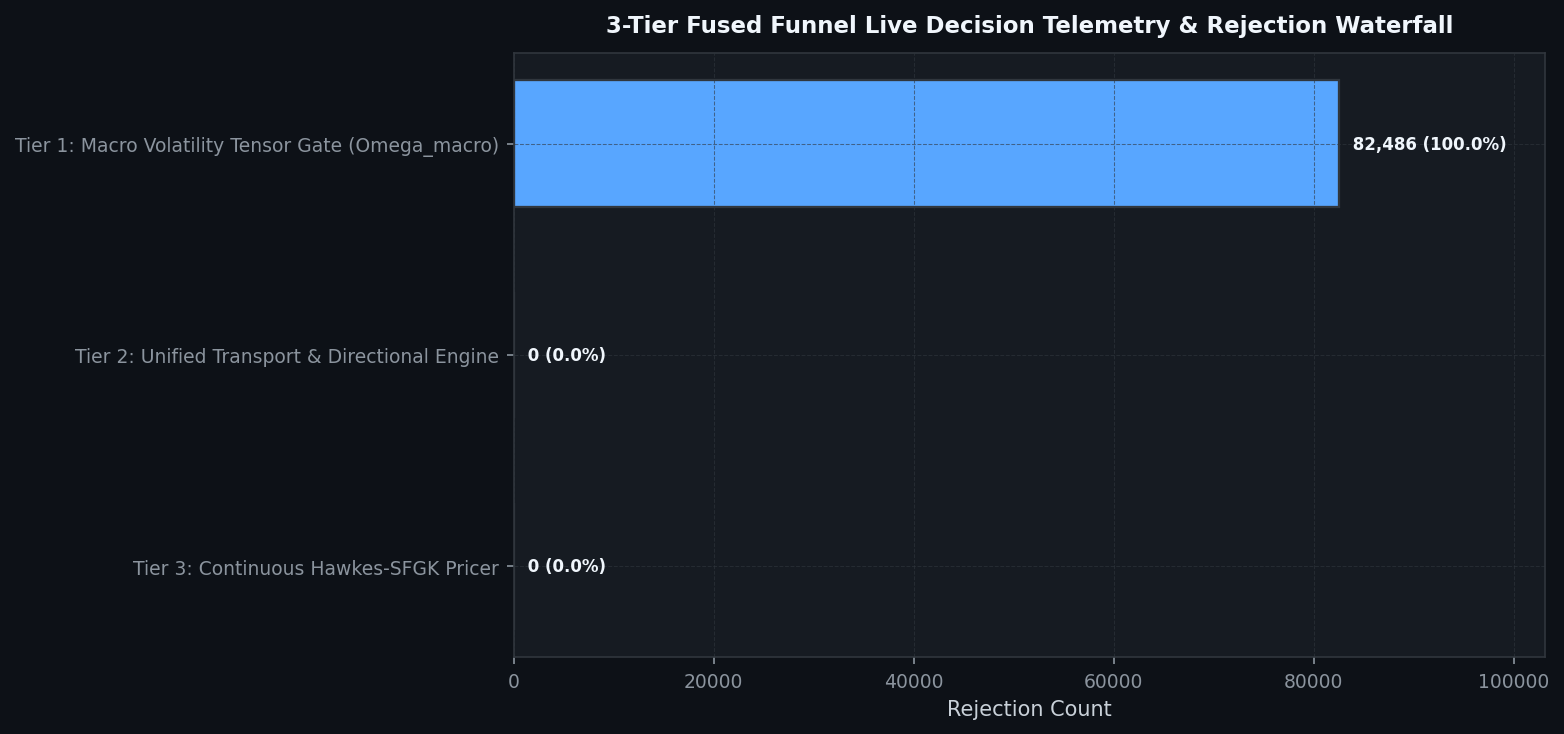
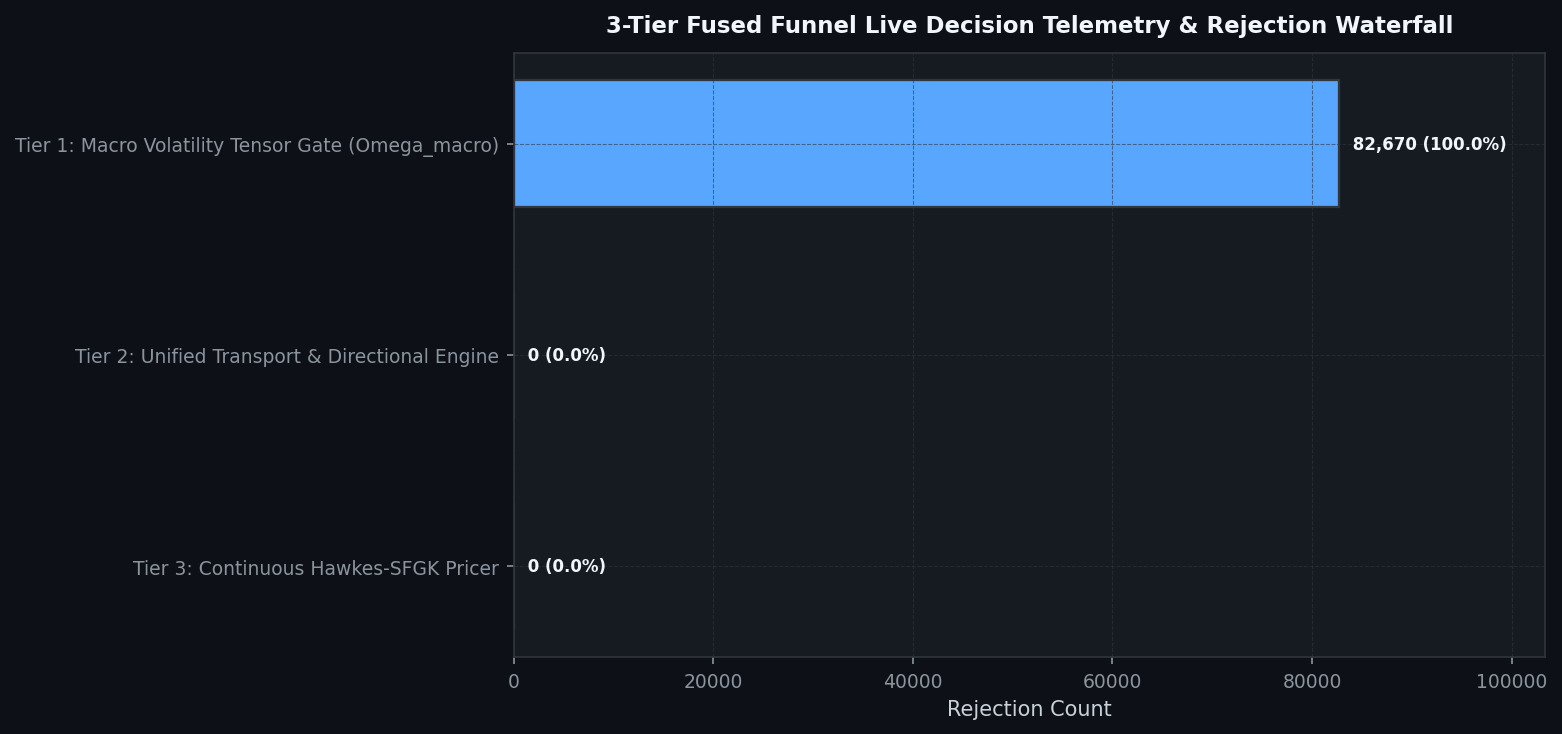
[coinbase] Hourly Status & Visual Intelligence Update: 2026-09-02 14:14:53

diff --git a/coinbase/data/hourly_status_report.md b/coinbase/data/hourly_status_report.md
@@ -3,7 +3,7 @@ layout: default
 ---
 
 # 🛡 Unified Trading System Hourly Status & Visual Intelligence
-> **Report Generated**: `2026-09-02 02:00:04 PM PDT (2026-09-02 21:00:04 UTC)`  
+> **Report Generated**: `2026-09-02 02:14:33 PM PDT (2026-09-02 21:14:33 UTC)`  
 > **System Health**: **🟡 DEGRADED / RESTRICTED** | **Win Rate**: `0.0%` | **Completed Trades**: `0`
 
 
@@ -15,13 +15,13 @@ Real-time Deribit implied volatility (DVOL) proxy tracking against mathematicall
 
 | Symbol | Proxy Oracle | Live Z-Score | Optimal Limit (YSP) | Safety Margin | Live VRP | Optimal VRP (YSP) | DAW Safety Verdict |
 | :--- | :--- | :--- | :--- | :--- | :--- | :--- | :--- |
-| `AVAX-USD` | DVOL_BTC | **-2.00** | **-0.50** | **-1.50** | **+8.39** | -1.0 | 🔴 DAW VETOED |
-| `ETH-USD` | DVOL_ETH | **-1.75** | **-0.50** | **-1.25** | **+22.60** | -1.0 | 🔴 DAW VETOED |
-| `ADA-USD` | DVOL_BTC | **-2.00** | **-0.50** | **-1.50** | **+8.32** | -1.0 | 🔴 DAW VETOED |
-| `DOGE-USD` | DVOL_BTC | **-2.00** | **-0.50** | **-1.50** | **+8.32** | -1.0 | 🔴 DAW VETOED |
-| `BTC-USD` | DVOL_BTC | **-2.00** | **-0.50** | **-1.50** | **+8.68** | -1.0 | 🔴 DAW VETOED |
-| `LINK-USD` | DVOL_BTC | **-2.00** | **-0.50** | **-1.50** | **+8.17** | -1.0 | 🔴 DAW VETOED |
-| `SOL-USD` | DVOL_BTC | **-2.00** | **-0.50** | **-1.50** | **+8.68** | -1.0 | 🔴 DAW VETOED |
+| `AVAX-USD` | DVOL_BTC | **-1.37** | **-0.50** | **-0.87** | **+9.28** | -1.0 | 🔴 DAW VETOED |
+| `ETH-USD` | DVOL_ETH | **-1.85** | **-0.50** | **-1.35** | **+22.60** | -1.0 | 🔴 DAW VETOED |
+| `ADA-USD` | DVOL_BTC | **-1.37** | **-0.50** | **-0.87** | **+9.28** | -1.0 | 🔴 DAW VETOED |
+| `DOGE-USD` | DVOL_BTC | **-1.37** | **-0.50** | **-0.87** | **+9.28** | -1.0 | 🔴 DAW VETOED |
+| `BTC-USD` | DVOL_BTC | **-1.37** | **-0.50** | **-0.87** | **+9.28** | -1.0 | 🔴 DAW VETOED |
+| `LINK-USD` | DVOL_BTC | **-1.37** | **-0.50** | **-0.87** | **+9.28** | -1.0 | 🔴 DAW VETOED |
+| `SOL-USD` | DVOL_BTC | **-1.37** | **-0.50** | **-0.87** | **+9.28** | -1.0 | 🔴 DAW VETOED |
 
 
 
@@ -37,16 +37,16 @@ We hereby certify that the mission-critical algorithmic data assets uploaded by 
 
 | Status | Data Asset | Freshness / State | Details / Timestamp |
 | :---: | :--- | :--- | :--- |
-| ✅ | **Go-List JSON** | Fresh (6.30h old) | 09-02 07:42 |
-| ✅ | **TimesFM Forecasts** | Fresh (1.12h old) | 09-02 12:53 |
-| ✅ | **Holding Times config** | Fresh (49.28h old) | 08-31 12:43 |
-| ✅ | **BTC DVOL Cache** | Fresh (0.00h old) | 09-02 14:00 |
-| ✅ | **ETH DVOL Cache** | Fresh (0.00h old) | 09-02 14:00 |
-| ✅ | **Live Trading Telemetry** | Fresh (0.00h old) | 09-02 14:00 |
+| ✅ | **Go-List JSON** | Fresh (6.54h old) | 09-02 07:42 |
+| ✅ | **TimesFM Forecasts** | Fresh (1.36h old) | 09-02 12:53 |
+| ✅ | **Holding Times config** | Fresh (49.52h old) | 08-31 12:43 |
+| ✅ | **BTC DVOL Cache** | Fresh (0.00h old) | 09-02 14:14 |
+| ✅ | **ETH DVOL Cache** | Fresh (0.00h old) | 09-02 14:14 |
+| ✅ | **Live Trading Telemetry** | Fresh (0.00h old) | 09-02 14:14 |
 
 <br>
 
-> **Utilization Certification**: ✅ **CERTIFIED.** The Guardian Watchdog is ONLINE and EC2 traders are actively querying the freshest MLOps data artifacts (Found 1803 recent read events).
+> **Utilization Certification**: ✅ **CERTIFIED.** The Guardian Watchdog is ONLINE and EC2 traders are actively querying the freshest MLOps data artifacts (Found 1759 recent read events).
 
 
 ---
@@ -55,7 +55,7 @@ Layer-by-layer tick evaluation waterfall and asset-specific performance tracking
 
 | Funnel Filter Layer | Total Rejections | % of Rejections |
 | :--- | :--- | :--- |
-| Tier 1: Macro Volatility Tensor Gate (Omega_macro) | `82,486` | **100.0%** |
+| Tier 1: Macro Volatility Tensor Gate (Omega_macro) | `82,670` | **100.0%** |
 | Tier 2: Unified Transport & Directional Engine | `0` | **0.0%** |
 | Tier 3: Continuous Hawkes-SFGK Pricer (HAS-Pricer) | `0` | **0.0%** |
 | System: Asset Cooldown Active | `0` | **0.0%** |
@@ -72,8 +72,8 @@ Layer-by-layer tick evaluation waterfall and asset-specific performance tracking
 | `ADA-USD` | 12 | 75.0% | 0 | 🟢 OK |
 | `DOGE-USD` | 82 | 65.9% | 3 | 🟢 OK |
 | `ETH-USD` | 37 | 56.8% | 1 | 🟢 OK |
-| `LINK-USD` | 90 | 67.8% | 0 | 🟢 OK |
-| `AVAX-USD` | 73 | 67.1% | 0 | 🟢 OK |
+| `LINK-USD` | 91 | 67.0% | 1 | 🟢 OK |
+| `AVAX-USD` | 74 | 66.2% | 1 | 🟢 OK |
 | `SOL-USD` | 27 | 77.8% | 1 | 🟢 OK |
 
 ---
@@ -87,11 +87,11 @@ Operational telemetry of the high-velocity stablecoin market-making and VIP fee 
 | **Tranche Order Sizing** | `$5,000.00 USD` | Multi-block continuous capital rotation |
 | **HFT Reserve Floor** | `$15,000.00 USD` | Unencumbered liquid USD strictly reserved for 0ms volatile strikes |
 | **Priority Interrupt Mode** | 🟢 ACTIVE FARMING (NON_UU_EMERGENT=False) | Instantly cancels U/U buys when volatile trade enters |
-| **Active BUY Tranches** | **5 Orders** (`$24,992.35 USD`) | Resting Limit Bids pegged to Best Bid |
+| **Active BUY Tranches** | **2 Orders** (`$9,996.40 USD`) | Resting Limit Bids pegged to Best Bid |
 | **Active SELL Tranches** | **0 Orders** (`$0.00 USDT`) | Resting Limit Asks pegged to Best Ask |
-| **Total Deployed U/U Capital** | **`$24,992.35 USD`** | Active bidirectional turnover liquidity pool |
-| **Rolling 30-Day Volume** | **`$2,288,225.17 USD`** | **VIP 2** (Maker: **0.05%** / 5 bps, Taker: **0.10%**) |
-| **Next Tier Milestone (VIP 3)** | **45.8% Complete** | `$2,711,774.83 USD` to reach $5,000,000.00 threshold |
+| **Total Deployed U/U Capital** | **`$9,996.40 USD`** | Active bidirectional turnover liquidity pool |
+| **Rolling 30-Day Volume** | **`$2,289,492.56 USD`** | **VIP 2** (Maker: **0.05%** / 5 bps, Taker: **0.10%**) |
+| **Next Tier Milestone (VIP 3)** | **45.8% Complete** | `$2,710,507.44 USD` to reach $5,000,000.00 threshold |
 
 
 ### Active U/U Maker Tranches on the Book
@@ -100,9 +100,6 @@ Operational telemetry of the high-velocity stablecoin market-making and VIP fee 
 | :--- | :--- | :--- | :--- | :--- | :--- |
 | `USDT-USD` | 🟢 **BUY** | 0.99962 | 5,000.0 | `$4,998.10` | `8d5f8230-2782-4c8a-975c-25b88c0de5e5` |
 | `USDT-USD` | 🟢 **BUY** | 0.99966 | 5,000.0 | `$4,998.30` | `8b7b3a5d-5a20-4232-bd34-ffa745987395` |
-| `USDT-USD` | 🟢 **BUY** | 0.99973 | 5,000.0 | `$4,998.65` | `93dcfcb9-6bea-4496-b719-ff159fd58f84` |
-| `USDT-USD` | 🟢 **BUY** | 0.99973 | 5,000.0 | `$4,998.65` | `7ce48a68-0abd-4206-8961-1c92b8bcb2e3` |
-| `USDT-USD` | 🟢 **BUY** | 0.99973 | 5,000.0 | `$4,998.65` | `afb3ef35-ee37-419e-9b37-4c6d11f1d76d` |
 
 
 ---
@@ -111,7 +108,7 @@ Live balance sheet and open maker liquidity positions from Coinbase CDP.
 
 | Currency | Available | Hold | Total Balance |
 | :--- | :--- | :--- | :--- |
-| `USDT` | 4147.2300 | 5000.0000 | **9147.2300** |
+| `USDT` | 3868.9500 | 15000.0000 | **18868.9500** |
 | `CRV` | 0.0500 | 0.0000 | **0.0500** |
 | `DOGE` | 0.2000 | 0.0000 | **0.2000** |
 | `FIL` | 0.0050 | 0.0000 | **0.0050** |
@@ -133,16 +130,16 @@ Live balance sheet and open maker liquidity positions from Coinbase CDP.
 | :--- | :--- | :--- | :--- | :--- |
 | `ACH-USD` | SELL | 0.00551 | 8,234.10 | `a0d2e243-42b4-4df5-bd23-118f45998df8` |
 | `ETH-USD` | SELL | 2,396.97000 | 0.34 | `149c8028-35a8-4722-b553-b81fac1228dd` |
-| `LINK-USD` | SELL | 11.17300 | 114.19 | `af2e4d7f-ed98-4fae-90c9-d19968bc1ce8` |
-| `AVAX-USD` | SELL | 7.19600 | 153.96 | `c650150c-330a-469e-a364-673a0a3a6b68` |
 | `USDT-USD` | BUY | 0.99962 | 5,000.00 | `8d5f8230-2782-4c8a-975c-25b88c0de5e5` |
 | `USDT-USD` | BUY | 0.99966 | 5,000.00 | `8b7b3a5d-5a20-4232-bd34-ffa745987395` |
-| `USDT-USD` | BUY | 0.99973 | 5,000.00 | `e2837e8a-e14b-4457-bd6d-37124557d995` |
-| `USDT-USD` | BUY | 0.99973 | 5,000.00 | `e50b2bc1-2cb1-4d13-8d47-d50b37560d5b` |
-| `USDT-USD` | BUY | 0.99973 | 5,000.00 | `f4200fe6-5ee5-455b-8504-f27e9fabbb90` |
-| `USDT-USD` | BUY | 0.99973 | 5,000.00 | `c2aa21fb-3bfc-4d88-a3f2-a11a2792d144` |
-| `USDT-USD` | BUY | 0.99973 | 5,000.00 | `a9d40845-b63c-419e-a463-751053dc1439` |
-| `USDT-USD` | SELL | 0.99974 | 5,000.00 | `a65f2575-451f-4c01-86bc-60edce8ae53b` |
+| `USDT-USD` | BUY | 0.99973 | 5,000.00 | `c0bf11dc-d4cd-461f-aac2-ec2d04802d50` |
+| `USDT-USD` | BUY | 0.99973 | 5,000.00 | `b144cc28-9a6d-45e0-9ff2-9c49a5fdfa0e` |
+| `USDT-USD` | BUY | 0.99973 | 5,000.00 | `1bc77cc7-f8f4-47d6-9cd7-5d492a8e7b17` |
+| `USDT-USD` | BUY | 0.99973 | 5,000.00 | `3b2900a5-f179-4e3e-b5c7-c1b53a826f16` |
+| `USDT-USD` | BUY | 0.99973 | 5,000.00 | `3c8edcc3-c8ef-4d71-99f2-2478331109ed` |
+| `USDT-USD` | SELL | 0.99974 | 5,000.00 | `5ecf3371-7a2a-4cc2-8101-b410ac7c34a4` |
+| `USDT-USD` | SELL | 0.99974 | 5,000.00 | `fd4a029e-3230-4ec8-80bb-98acfab336cf` |
+| `USDT-USD` | SELL | 0.99974 | 5,000.00 | `5d022eb2-e77a-4998-ab99-d1a1bdb24d64` |
 
 
 
@@ -150,14 +147,14 @@ Live balance sheet and open maker liquidity positions from Coinbase CDP.
 ## 6. 🤖 Foundation Model MLOps & Pipeline Orchestration
 Weekly Algorithmic Mega Cap selection, Zero-shot multi-step forward return forecasts, and VSTEF parameter grid search status.
 
-- **TimesFM Forecast DB**: 🟢 Updated 1.1h ago (2026-09-02 12:53 PM PDT)
+- **TimesFM Forecast DB**: 🟢 Updated 1.4h ago (2026-09-02 12:53 PM PDT)
 - **Last Weekly VSTEF Optimization**: `2026-08-31 12:42:56 PM PDT`
-- **Next Scheduled VSTEF Run**: `2026-09-06 07:00:00 PM PDT (Monday 02:00 UTC)` (Countdown: **101.0h (4d 4h 59m)**)
+- **Next Scheduled VSTEF Run**: `2026-09-06 07:00:00 PM PDT (Monday 02:00 UTC)` (Countdown: **100.8h (4d 4h 45m)**)
 - **Promoted Parameter Gates**: $Z_{DVOL} \le -0.5$ | Holding Horizon $= 12\text{h}$
 
 ### Algorithmic Mega Cap Selection
 - **Last Run (Confirmation)**: `2026-09-02 07:42:22 AM PDT`
-- **Next Scheduled Run**: `2026-09-06 06:00:00 PM PDT (Monday 01:00 UTC)` (Countdown: **100.0h (4d 3h 59m)**)
+- **Next Scheduled Run**: `2026-09-06 06:00:00 PM PDT (Monday 01:00 UTC)` (Countdown: **99.8h (4d 3h 45m)**)
 - **Selected Mega Cap Universe**: `BTC, ETH, DOGE, SUI, XRP, SOL, ZEC`
 
 
@@ -171,20 +168,20 @@ Visualizing the impact of the VSTEF (Volatility-Synchronized Stop-Tightening Exe
 ## 7. 🖥 Multi-Node Infrastructure & Watchdog Matrix
 ```text
 ================================================================================
-   🛡  SFGK FUNNEL GUARDIAN WATCHDOG (HFT ONLY) |  08:59:59 PM
-   CPU:  18.0%  |  MEM:   7.6% (14.3GB / 15.4GB Free)
+   🛡  SFGK FUNNEL GUARDIAN WATCHDOG (HFT ONLY) |  09:14:30 PM
+   CPU:  10.6%  |  MEM:   6.2% (14.5GB / 15.4GB Free)
 ================================================================================
 SERVICE              | PID      | STATUS          | RESTARTS | INFO
 --------------------------------------------------------------------------------
 L3 Consumer          | 1271969  | RUNNING         | -        | Continuous Websocket Feed
 MAO Daemon           | 1272026  | RUNNING         | -        | Oracle Yield Analysis
 U/U Farmer           | 1272028  | RUNNING         | -        | Volume Farmer
-Trader AVAX-USD      | 1283546  | RUNNING         | 23       | Evaluating Funnel/Polling Order
+Trader AVAX-USD      | 1348236  | COOL-DOWN       | 31       | Next run in 14.8s
 Trader ETH-USD       | 1311668  | RUNNING         | 96       | Evaluating Funnel/Polling Order
-Trader ADA-USD       | 1332568  | COOL-DOWN       | 85       | Next run in 3.9s
-Trader DOGE-USD      | 1332706  | COOL-DOWN       | 141      | Next run in 14.4s
-Trader BTC-USD       | 1332891  | RUNNING         | 170      | Evaluating Funnel/Polling Order
-Trader LINK-USD      | 1281669  | RUNNING         | 3        | Evaluating Funnel/Polling Order
+Trader ADA-USD       | 1348237  | COOL-DOWN       | 126      | Next run in 14.8s
+Trader DOGE-USD      | 1348049  | COOL-DOWN       | 181      | Next run in 3.6s
+Trader BTC-USD       | 1348105  | COOL-DOWN       | 210      | Next run in 9.2s
+Trader LINK-USD      | 1348106  | COOL-DOWN       | 18       | Next run in 9.2s
 ```
 
 ---

diff --git a/coinbase/data/visual_intelligence.md b/coinbase/data/visual_intelligence.md
@@ -4,7 +4,7 @@ title: Visual Intelligence Gallery
 ---
 
 # 📈 Visual Intelligence Gallery
-> **Generated:** `2026-09-02 14:00:23`
+> **Generated:** `2026-09-02 14:14:53`
 > **[Return to Main Status Report](./hourly_status_report.md)**
 
 This page visualizes the internal states, market profiles, and decision criteria of the active **3-Tier Fused Decision Engine** across all layers.
